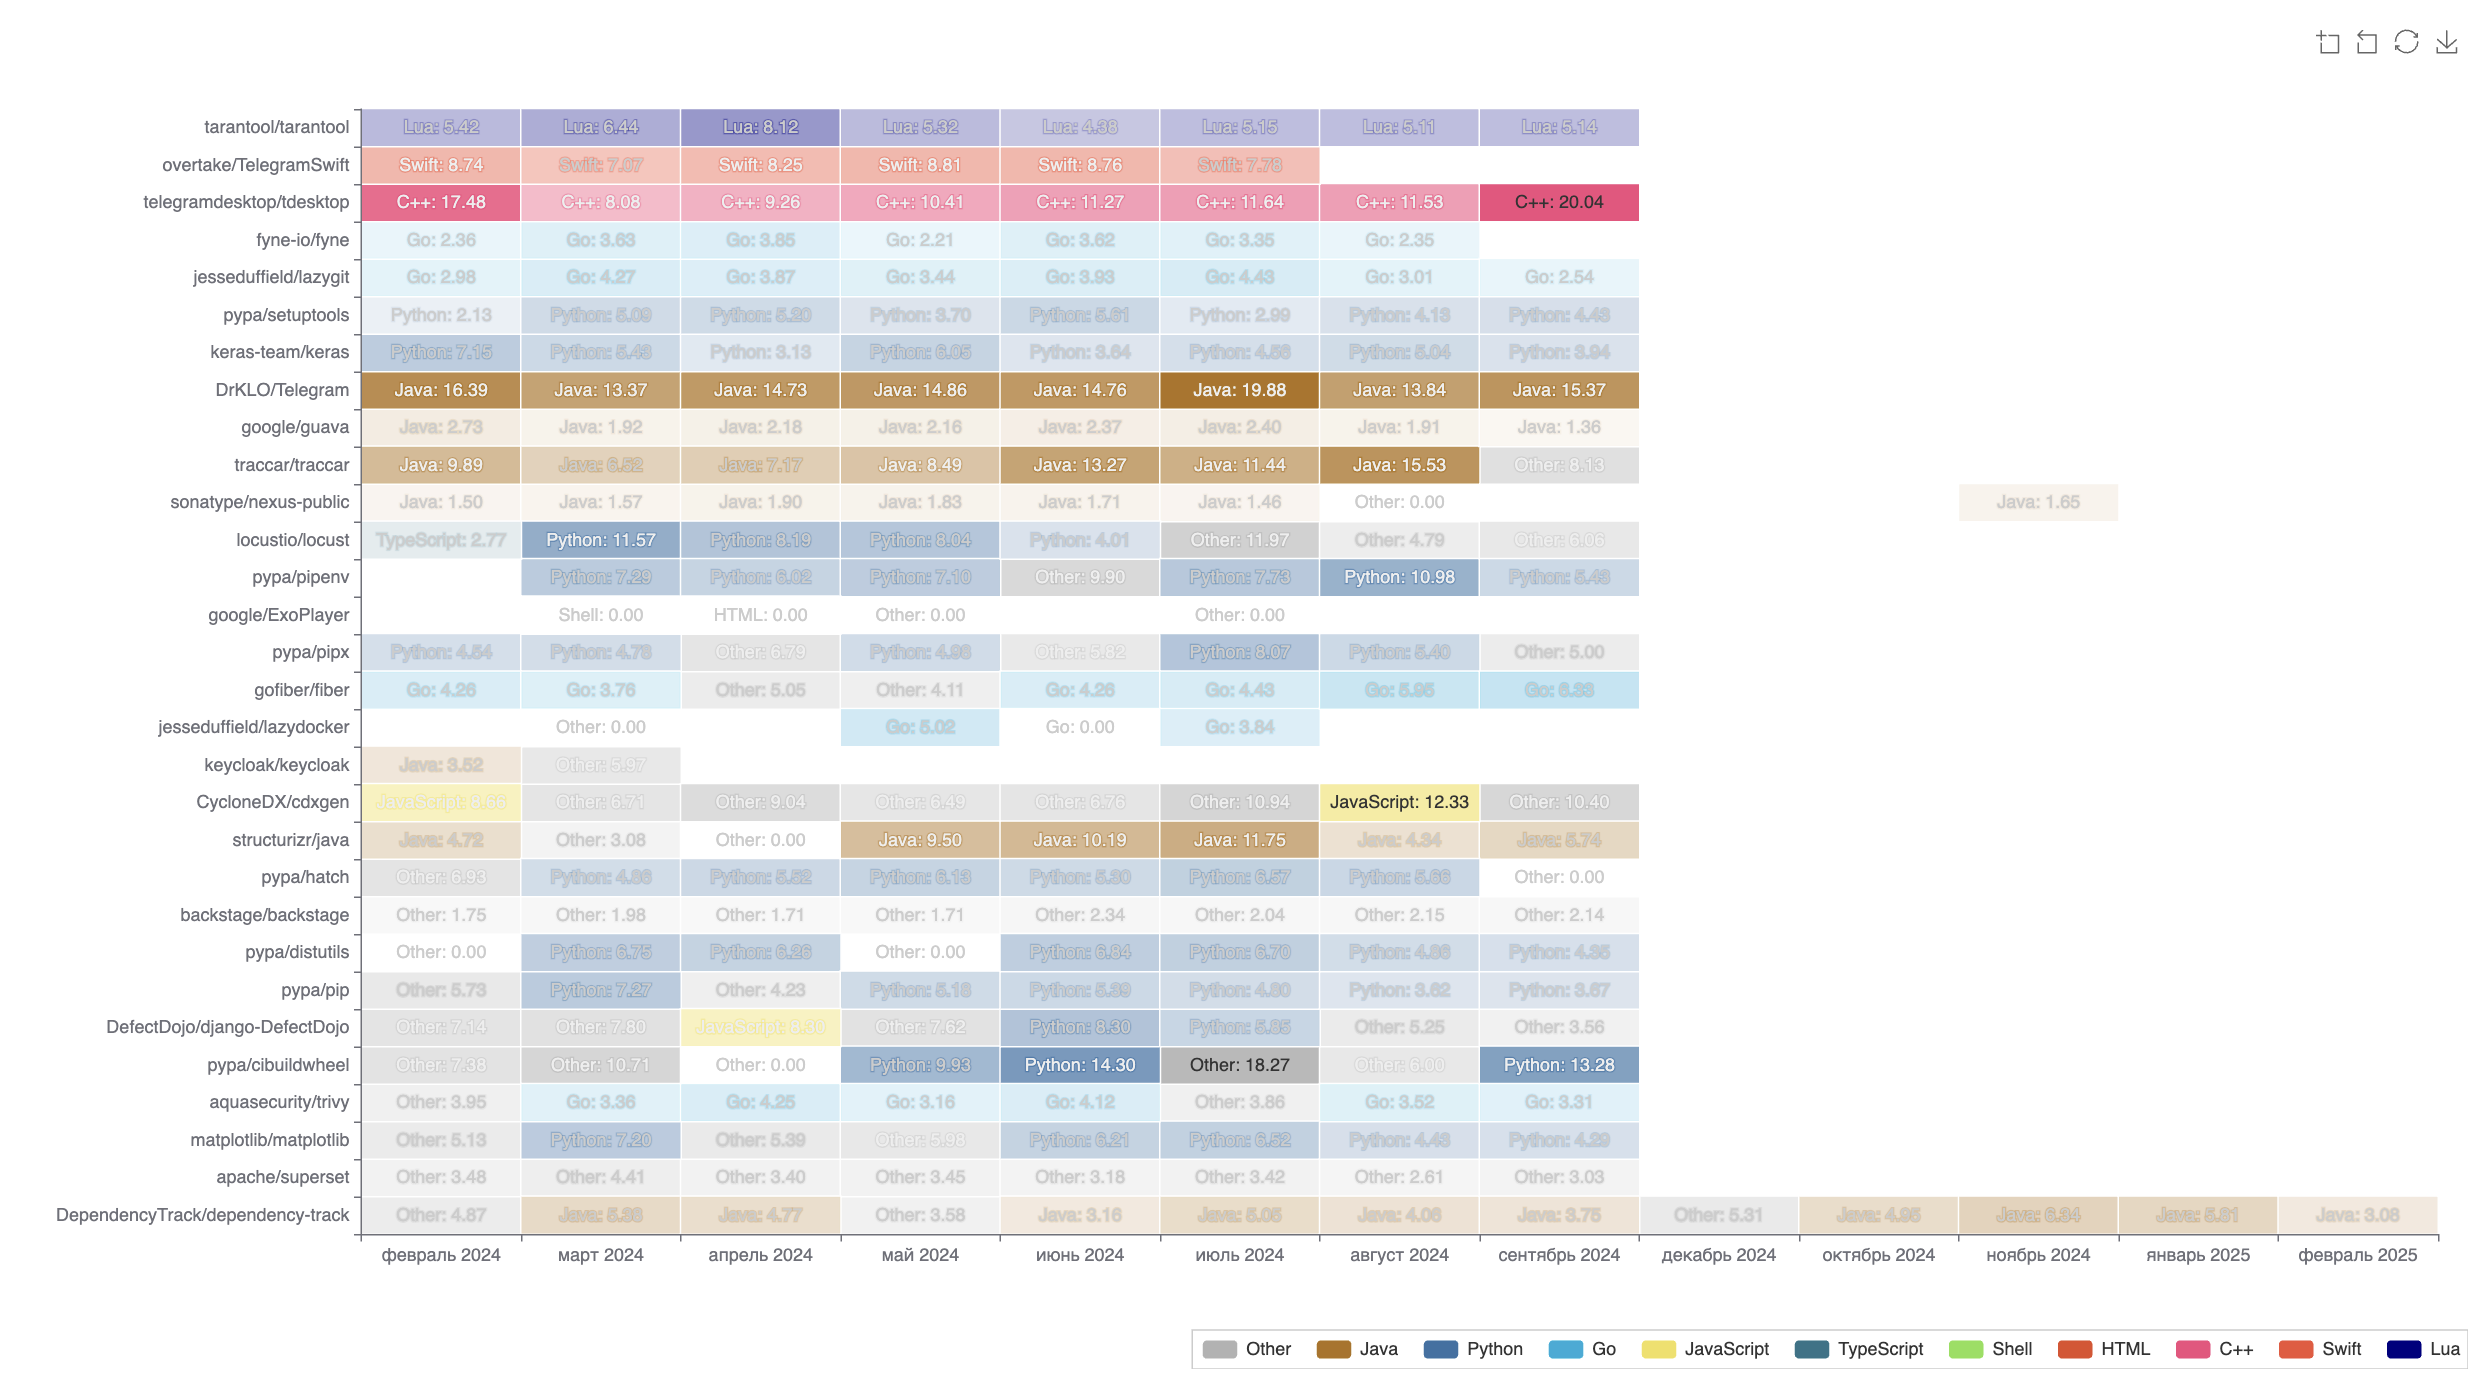
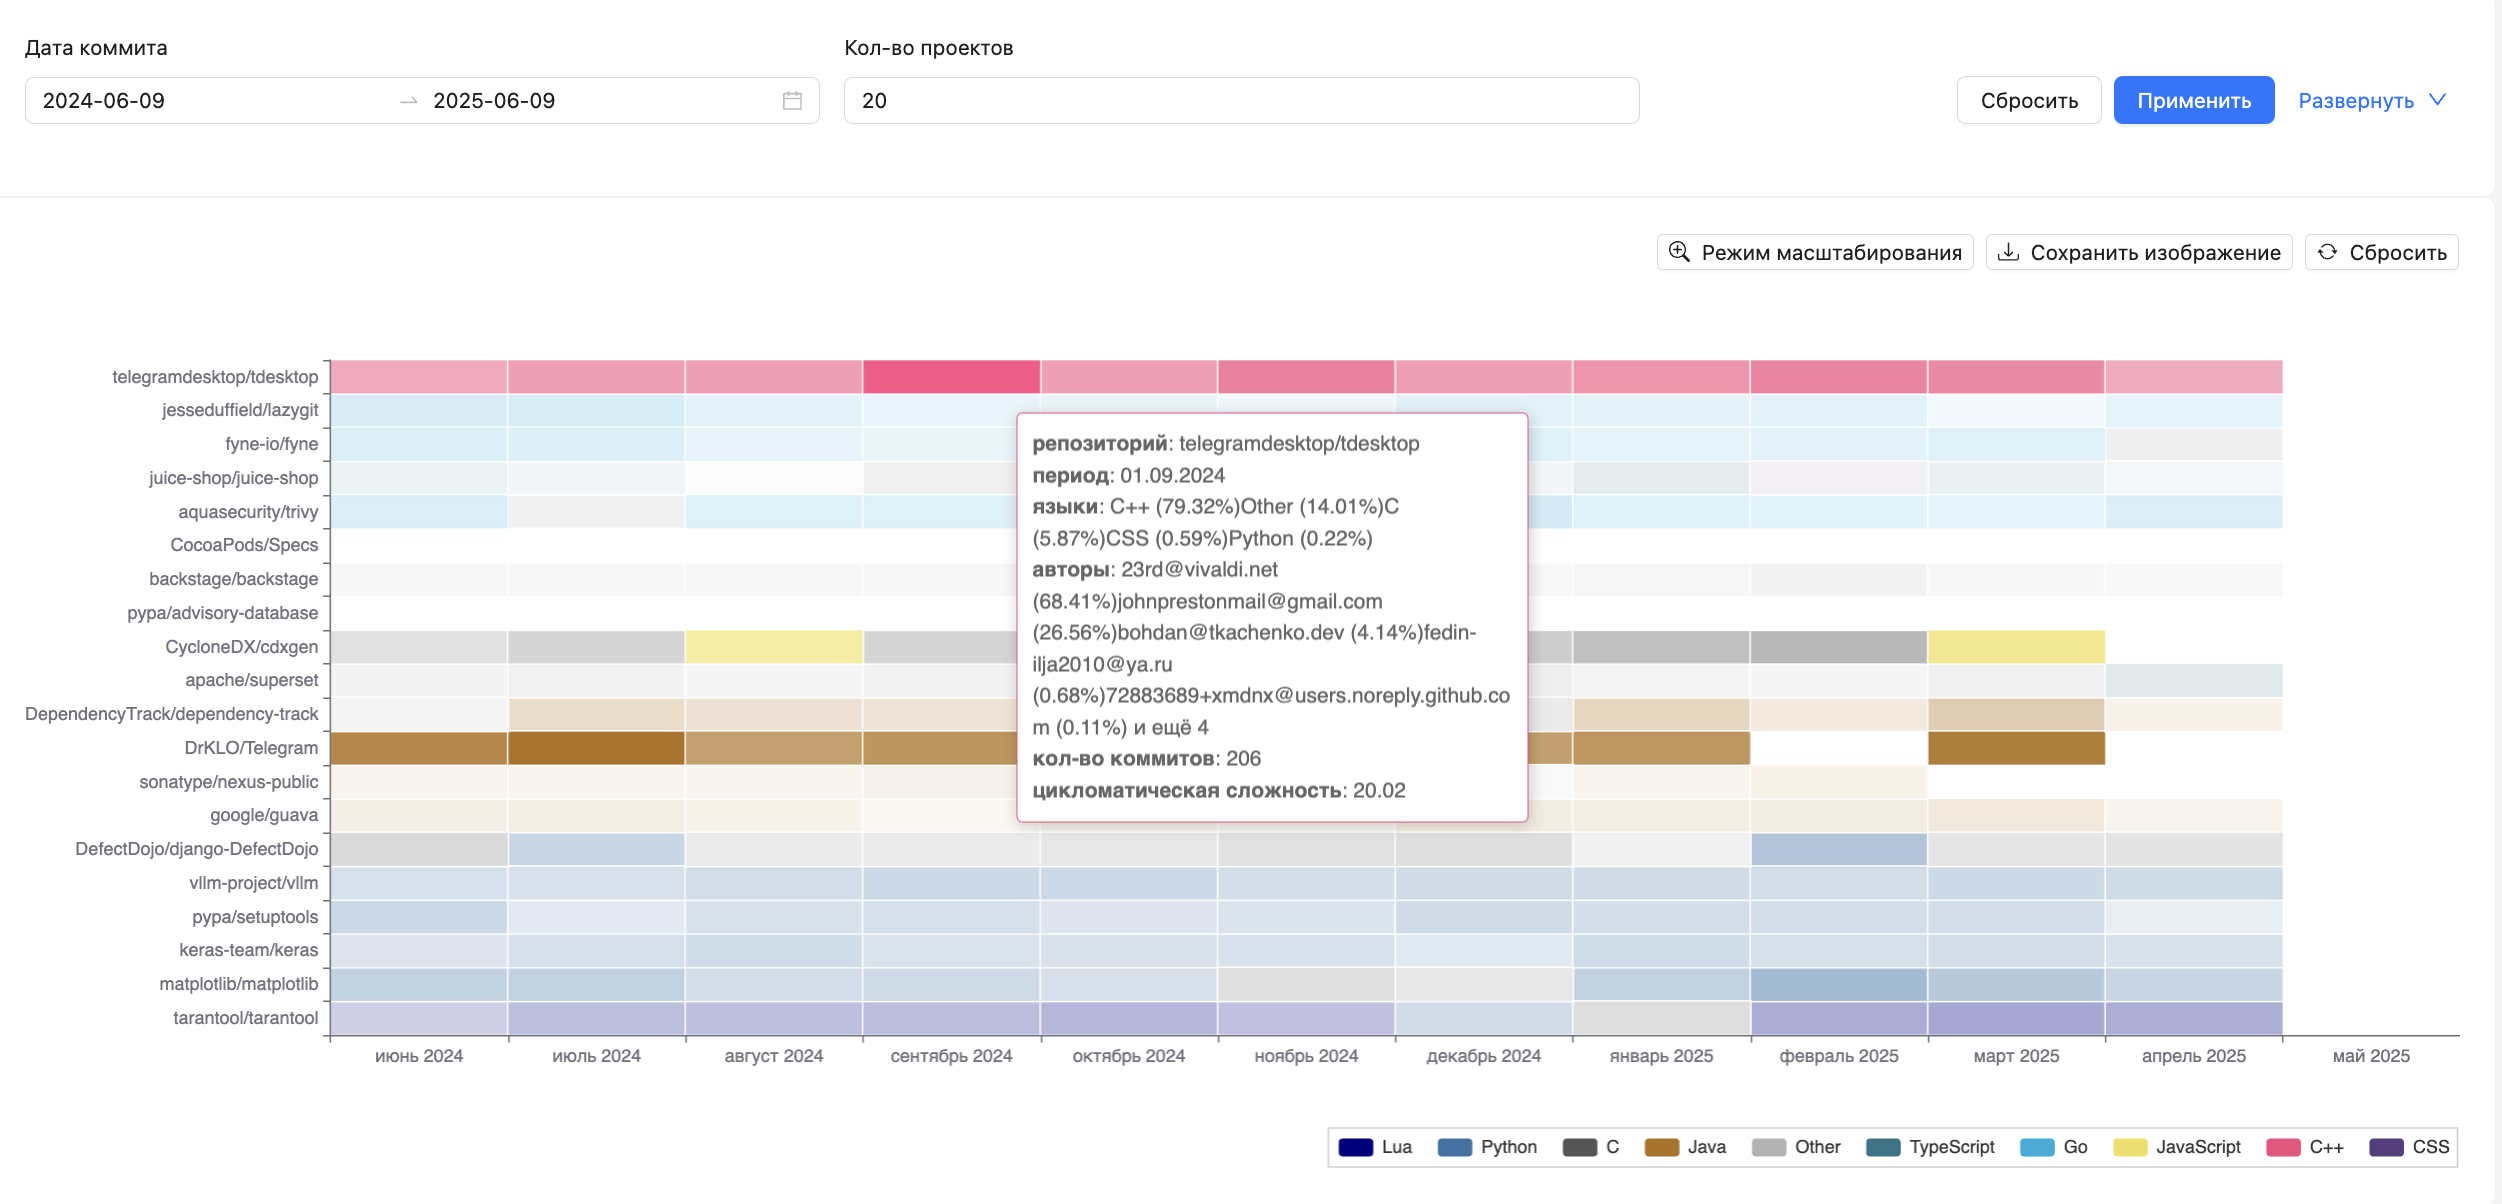
updated TQI maps

diff --git a/docs/tqi/viewing-results.md b/docs/tqi/viewing-results.md
@@ -75,7 +75,7 @@ hide:
 - **Категория проекта** – категория проекта, назначенная в рамках системы CodeScoring;
 - **Технологии** – языки программирования, используемые в проекте.
 
-![Contribution map](/assets/img/tqi/contribution-map.png)
+![Contribution map](/assets/img/tqi/contribution-map-projects.png)
 
 Карту можно также сохранить как PNG изображение.
 
@@ -89,7 +89,7 @@ hide:
 - **Категория проектов** – категория, назначенная в рамках системы CodeScoring;
 - **Технологии** – языки программирования, используемые в проекте.
 
-![Complexity map](/assets/img/tqi/contribution-map.png)
+![Complexity map](/assets/img/tqi/complexity-map.png)
 
 Карту можно также сохранить как PNG изображение.
 

diff --git a/docs/tqi/viewing-results.en.md b/docs/tqi/viewing-results.en.md
@@ -75,7 +75,7 @@ The activity map is available in the `TQI –> Projects` section on the **Activi
 - **Project category** – category assigned within the CodeScoring system;
 - **Technologies** – programming languages used in the creation of the project.
 
-![Contribution map](/assets/img/tqi/en/contribution-map.png)
+![Contribution map](/assets/img/tqi/en/contribution-map-projects.png)
 
 The map can also be saved as a PNG image.
 
@@ -89,6 +89,6 @@ The complexity map is available in the `TQI –> Projects` section on the **Comp
 - **Project Category** – category assigned within the CodeScoring system;
 - **Technologies** – programming languages used within the project.
 
-![Complexity map](/assets/img/tqi/en/contribution-map.png)
+![Complexity map](/assets/img/tqi/en/complexity-map.png)
 
 The map can also saved as a PNG image.

diff --git a/docs/tqi/authors.en.md b/docs/tqi/authors.en.md
@@ -52,7 +52,7 @@ If you set the filter to **Python**, then commits **1, 2, and 5** will be includ
 
 After filtering, commits are grouped by month and aggregated. As a result, there may be situations when the main language of the month is JS, and Python takes up only **1%**, but it still gets into the sample.
 
-![Contribution map](/assets/img/tqi/en/contribution-map.png)
+![Contribution map](/assets/img/tqi/en/contribution-map-authors.png)
 
 The map can also be saved as a PNG image.
 
